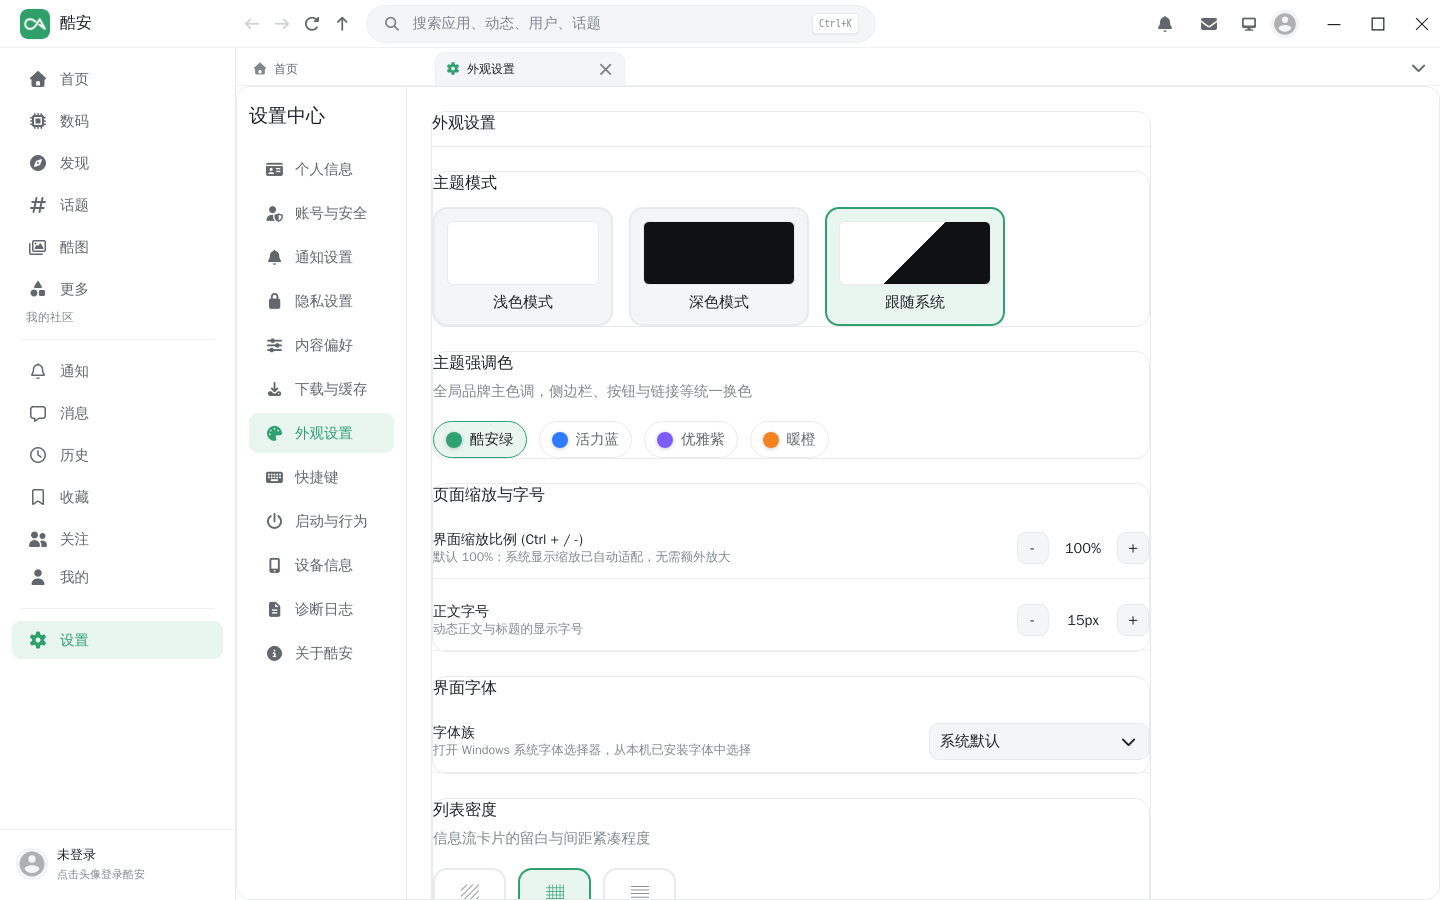
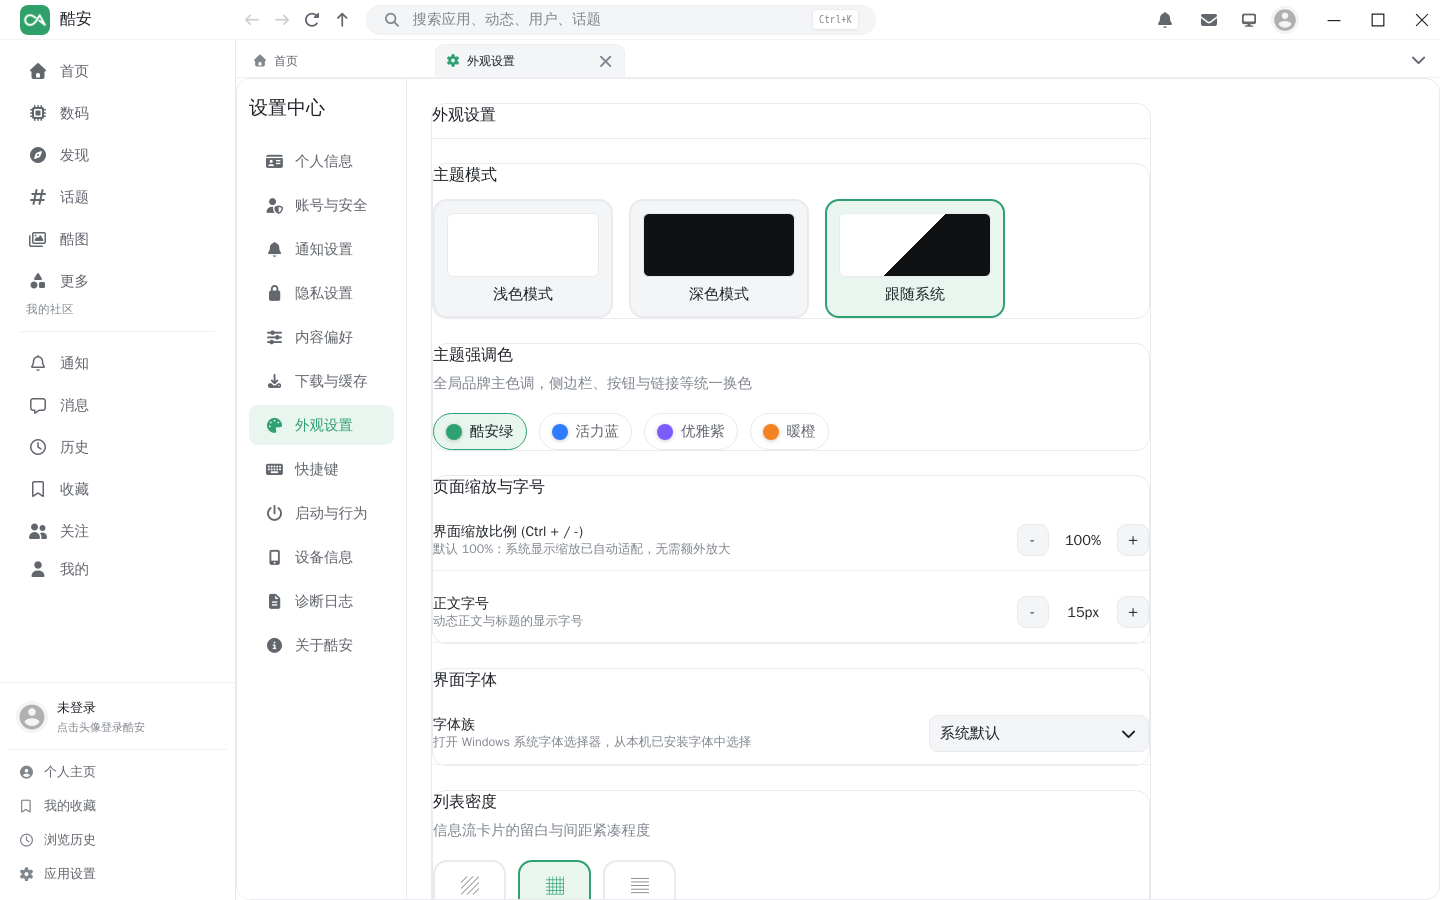
README 更新到 v0.7.0：预览图按当前构建重截，界面/增强/状态三张表补齐 v0.6.0–v0.7.0 变更
预览图重截（首页 + 设置页，1440x900，未登录 + 假数据）：旧图里左栏还有独立的「设置」行、右栏还有「大家都在搜」，与 v0.7.0 不符。界面表按当前实现重写（顶栏 40px、设置入口只在左下角、右栏卡片顺序、话题页也有单列/双列开关）；自用增强表补 v0.6.0 与 v0.7.0 五行；当前状态表把「待真机验收」那批从 v3/v4 换成 v5/v6。

diff --git a/README.md b/README.md
@@ -39,14 +39,14 @@
 
 ![设置页](docs/preview/app-settings.png)
 
-*以上两张截图都是**客户端前端的实际渲染**（本地快照，未登录状态），不是设计稿。首页那张是**双列**形态——也就是两个各自独立滚动的瀑布流；单列 / 双列可在信息流右上角切换。*
+*以上两张截图都是**客户端前端的实际渲染**（本地快照，未登录状态 + 假数据），不是设计稿。首页那张是**双列**形态——也就是两个各自独立滚动的瀑布流；单列 / 双列可在信息流右上角切换，独立话题页顶栏也有同一个开关。*
 
 | | |
 |---|---|
-| **顶栏** | 左：酷安 logo + 「酷安」；中：前进 / 后退 / 刷新 / 回到顶部 + 搜索框（Ctrl+K）；右：通知、私信、主题切换、账号入口（头像，悬停出资料浮层）、窗口按钮 |
-| **左侧导航** | 首页 / 数码 / 发现 / 话题 / 酷图 / 更多，以及「我的社区」分组；底部是个人中心卡片；可收起为图标栏 |
-| **中间** | 首页大标题 + 热词胶囊 + 胶囊栏目行；信息流单列 / 双列可切，双列时两列各自独立滚动 |
-| **右侧栏** | 欢迎卡、大家都在搜、本月热榜、热门话题、我关注的话题；可整块隐藏 |
+| **顶栏** | 左：酷安 logo + 「酷安」；中：前进 / 后退 / 刷新 / 回到顶部 + 搜索框（Ctrl+K）；右：通知、私信、主题切换、账号入口（头像，悬停出资料浮层）、窗口按钮；整条栏高 **40px**（紧凑到只留必要留白） |
+| **左侧导航** | 首页 / 数码 / 发现 / 话题 / 酷图 / 更多，以及「我的社区」分组；底部是个人中心卡片，卡片下**常显**「个人主页 / 我的收藏 / 浏览历史 / 应用设置」四项——**设置入口只在这里**，主导航里没有独立的「设置」行；栏本身可收起为图标栏 |
+| **中间** | 首页大标题 + 热词胶囊 + 胶囊栏目行；信息流单列 / 双列可切，双列时两列各自独立滚动；**独立话题页也有单列 / 双列开关**（与首页共用同一份设置） |
+| **右侧栏** | 我关注的话题（登录后**置顶**）、欢迎来到酷安（未登录时）、本月热榜、热门话题；可整块隐藏。热门搜索词不在这里，点开顶栏搜索框即可看到 |
 | **发布入口** | 内容区底部居中的悬浮毛玻璃钮（「+ 发布动态」），按住可拖动，位置会记住 |
 
 左右栏怎么收放：把鼠标移到**左栏右缘 / 右栏左缘的分界线**上，会浮现一个竖条小胶囊手柄，点它收起或还原。右栏只在首页存在，窗口宽度小于 1200px 时右栏本身不显示。
@@ -55,7 +55,7 @@
 
 ## 自用增强
 
-在官方客户端行为之上，这个版本加了这些（都在设置里可关）：
+在官方客户端行为之上，这个版本加了这些（能开关的都放在设置里）：
 
 | 功能 | 说明 | 起始版本 |
 |---|---|---|
@@ -67,8 +67,14 @@
 | **全站统一皮肤** | 品牌绿 / 圆角 / 描边 / 标题层级 / 选中态收敛成一套 | v0.4.0 |
 | **界面稿 v3 / v4 版式** | 顶栏定稿（左 logo、右动作区 + 账号入口）、左下角个人中心卡、底部悬浮发布钮、右栏手柄 | v0.5.0 – v0.5.2 |
 | **发布钮可拖动** | 悬浮发布钮按住可拖到任意位置，松手记住（存在设置的 `publishFabPosition` 里） | v0.5.2 |
+| **顶栏账号头像 28px** | 右上角账号头像收到 28px，与相邻的主题按钮同径，不再比它大一圈 | v0.6.0 |
+| **设置入口收敛** | 主导航里那行独立的「设置」删掉，并入左下角个人卡的**常显**四项菜单（个人主页 / 我的收藏 / 浏览历史 / 应用设置），窄屏图标态与手机抽屉里也不丢入口 | v0.7.0 |
+| **右栏改版** | 「我关注的话题」提到右栏**最上面**；「大家都在搜」撤下——同一批热门词只在点开搜索框后展示（12 条，比原来 6 条更全） | v0.7.0 |
+| **标题栏收窄** | 顶栏高度 48 → **40px**（约 2mm），顶栏搜索框同步 38 → 30px | v0.7.0 |
+| **双列真的生效** | 修掉各页面自己的单列样式把全局双列顶掉的老 bug（选「双列」其实还是单列）；独立话题页顺带加上单列 / 双列开关 | v0.7.0 |
+| **设备信息自定义** | 自定义机型 / 品牌 / 构建号真正写进请求：UA 与设备码（`X-App-Device` 的厂商 / 品牌 / 机型 / 构建号四段）都跟随设置，设备页可直接看到将发出的四段；关掉自定义时输出与旧版逐字节一致，老账号不受影响 | v0.7.0 |
 
-开关位置：`设置 → 外观` 下的「快捷回复」「我关注的话题」；左右栏收放在侧栏分界线上的手柄。
+开关位置：`设置 → 外观` 下的「快捷回复」「我关注的话题」；设置入口在**左下角个人卡的「应用设置」**（主导航里没有）；左右栏收放在侧栏分界线上的手柄。
 
 ## 当前状态
 
@@ -76,9 +82,9 @@
 |---|---|
 | 工程底座（Tauri 2 + Vue 3 + Rust），只保留 Windows 目标 | 各页面**各自的版式**仍是上游结构（统一的是皮肤层，不是逐页重画） |
 | 单文件 exe 打包（不出安装器） | Windows 10 上的窗口圆角表现待实机验证 |
-| 推送 `v*` tag 自动构建并发布 Release | 界面稿 v3 / v4 那批改动（顶栏、侧栏手柄、悬浮发布钮、快捷回复头像）的真机验收 |
+| 推送 `v*` tag 自动构建并发布 Release | 界面稿 v5 / v6 那批改动（标题栏收窄、设置入口收敛到左下角、右栏改版、双列修复、设备信息自定义）的真机验收 |
 | 构建后**启动自检**：在构建机上真跑一次 exe，跑不起来就拒绝发版 | |
-| 首页照稿重排 + 全站统一皮肤 + 上面那几项增强 | |
+| 首页照稿重排 + 全站统一皮肤 + 上面那几项增强（最新 v0.7.0） | |
 
 *说明：界面统一是「一套令牌与皮肤 + 统一覆盖各页面重复写法」，没有逐页重写版式；「我的」页那类官方风格的多彩图标等页面细节保持原样。*
 
